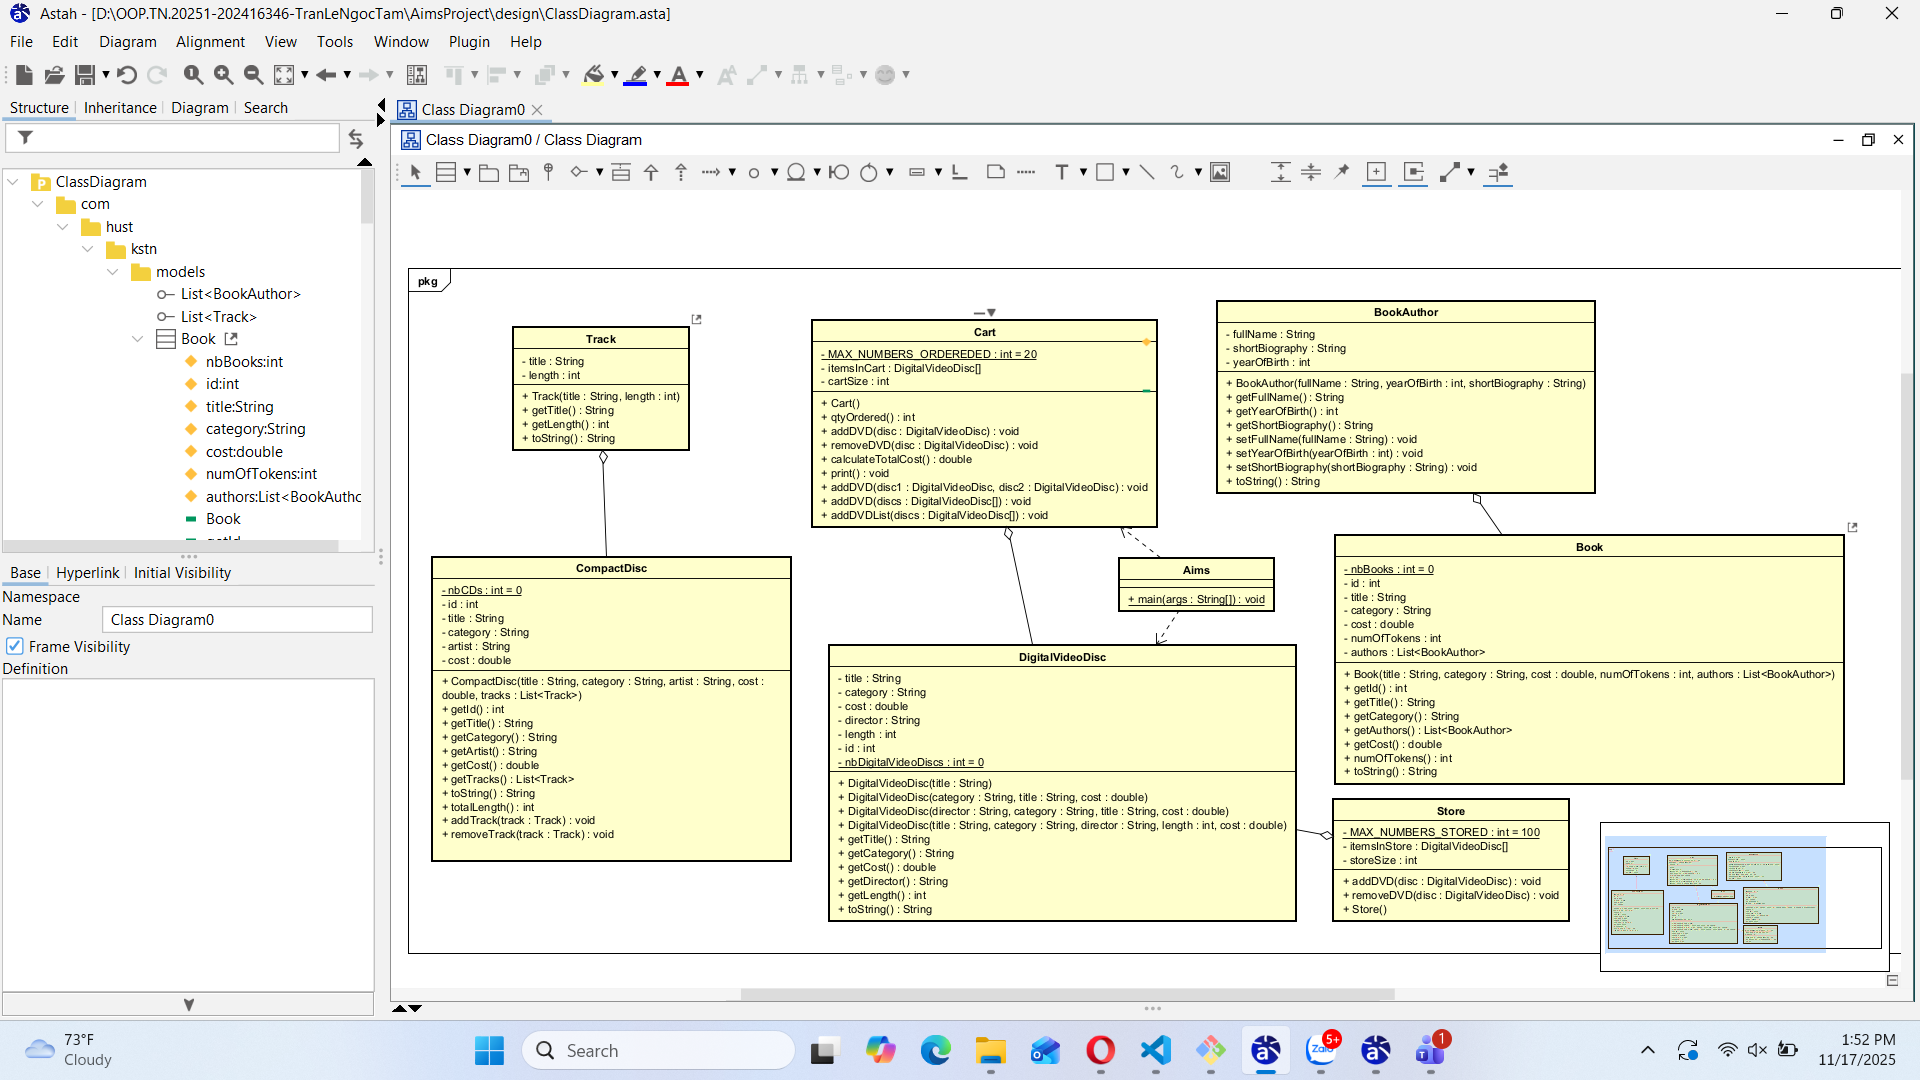
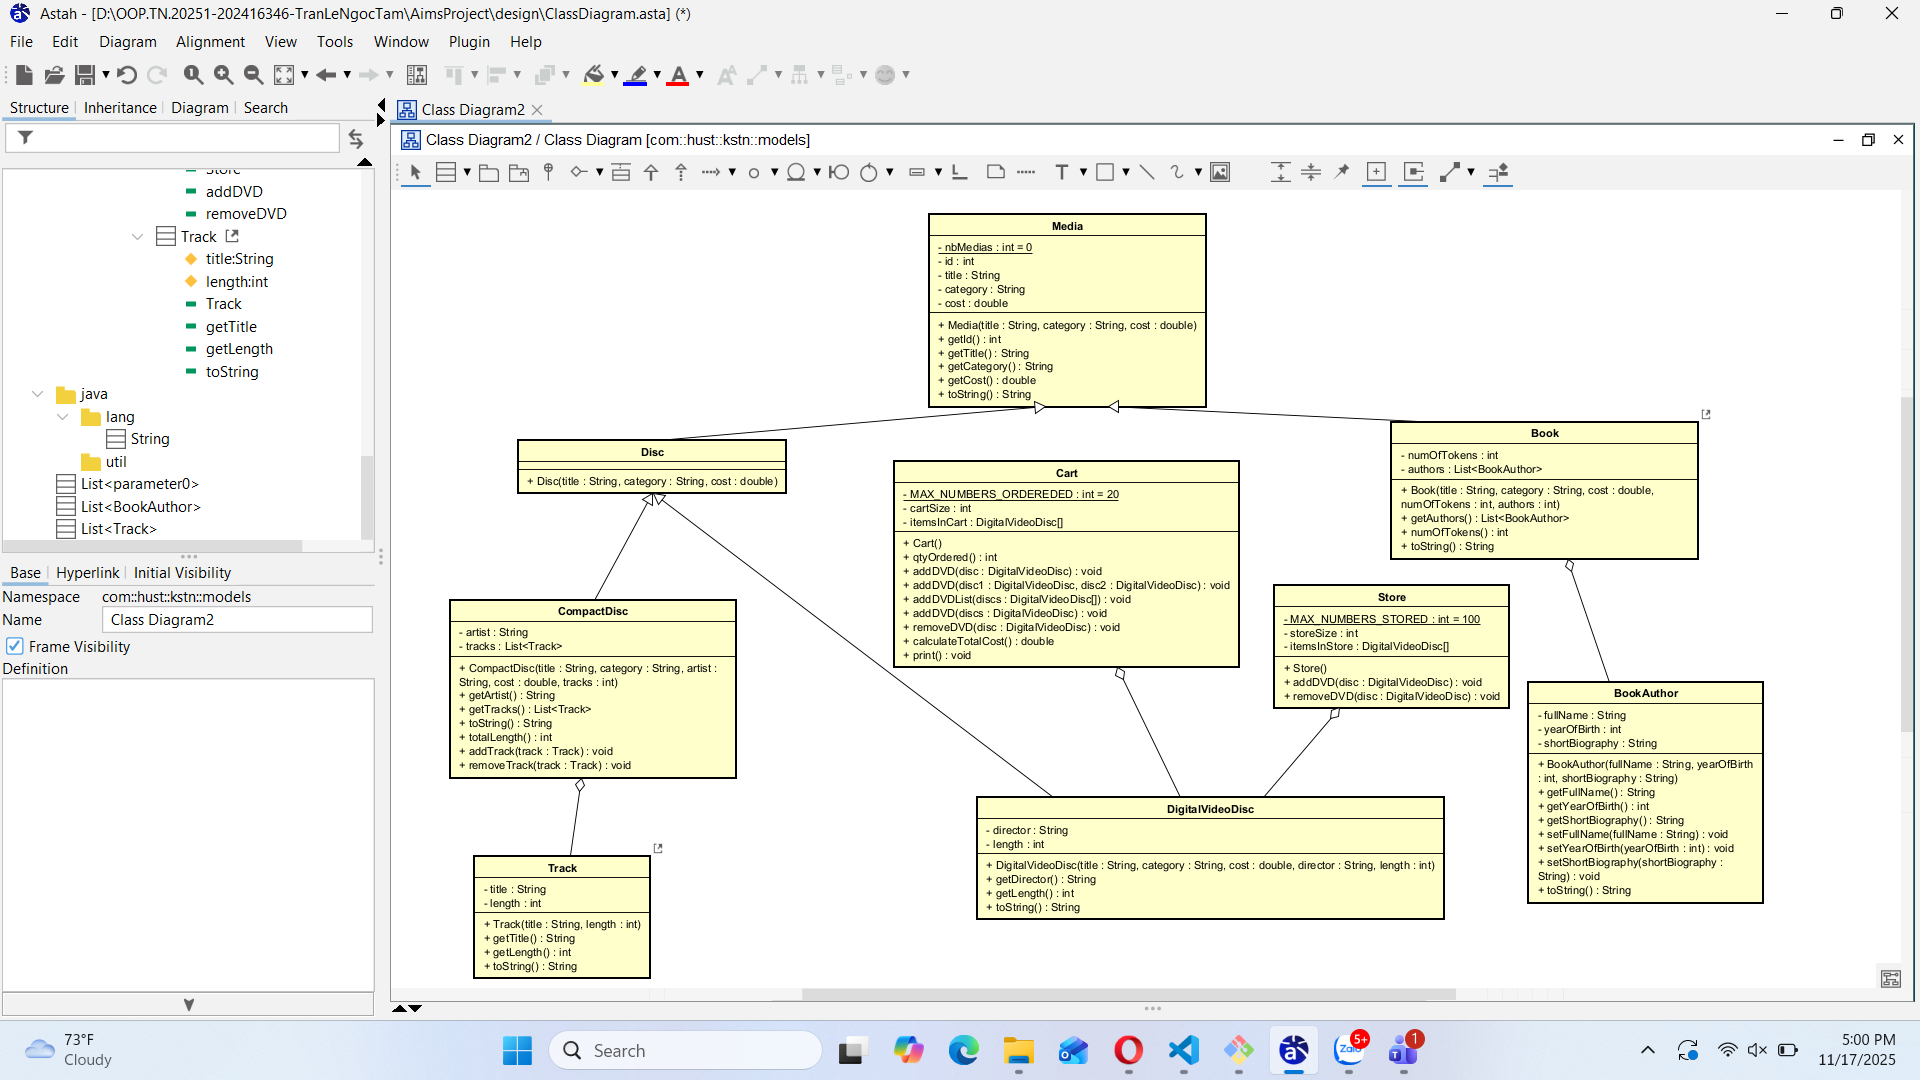
Create Inheritance Structure

diff --git a/AimsProject/src/com/hust/kstn/models/DigitalVideoDisc.java b/AimsProject/src/com/hust/kstn/models/DigitalVideoDisc.java
@@ -1,53 +1,13 @@
 package com.hust.kstn.models;
 
-public class DigitalVideoDisc {
-    private static int nbDigitalVideoDiscs = 0;
-    private int id;
-    private String title;
-    private String category;
-    private double cost;
+public class DigitalVideoDisc extends Disc {
     private String director;
     private int length;
 
-    public DigitalVideoDisc(String title) {
-        this.title = title;
-        this.id = ++nbDigitalVideoDiscs;
-    }
-
-    public DigitalVideoDisc(String category, String title, double cost) {
-        this.category = category;
-        this.title = title;
-        this.cost = cost;
-        this.id = ++nbDigitalVideoDiscs;
-    }
-
-    public DigitalVideoDisc(String director, String category, String title, double cost) {
-        this.director = director;
-        this.category = category;
-        this.title = title;
-        this.cost = cost;
-        this.id = ++nbDigitalVideoDiscs;
-    }
-
-    public DigitalVideoDisc(String title, String category, String director, int length, double cost) {
-        this.title = title;
-        this.category = category;
-        this.cost = cost;
+    public DigitalVideoDisc(String title, String category, double cost, String director, int length) {
+        super(title, category, cost);
         this.director = director;
         this.length = length;
-        this.id = ++nbDigitalVideoDiscs;
-    }
-
-    public String getTitle() {
-        return title;
-    }
-
-    public String getCategory() {
-        return category;
-    }
-
-    public double getCost() {
-        return cost;
     }
 
     public String getDirector() {
@@ -60,11 +20,8 @@ public class DigitalVideoDisc {
 
     @Override
     public String toString() {
-        return "DVD" + "[" + this.id + "]"
-                + "[" + this.title + "]"
-                + "[" + this.cost + "]"
-                + "[" + this.director + "]"
-                + "[" + this.length + "]"
-                + "[" + this.category + "]";
+        return super.toString() 
+                + "[" + this.director + "]["
+                + this.length + " seconds]";
     }
 }

diff --git a/AimsProject/src/com/hust/kstn/models/Book.java b/AimsProject/src/com/hust/kstn/models/Book.java
@@ -3,48 +3,27 @@ package com.hust.kstn.models;
 import java.util.ArrayList;
 import java.util.List;
 
-public class Book {
-    private static int nbBooks = 0;
-    private int id;
-    private String title;
-    private String category;
+public class Book extends Media {
     private List<BookAuthor> authors = new ArrayList<>();
-    private double cost;
     private int numOfTokens;
     public Book(String title, String category, double cost, int numOfTokens, List<BookAuthor> authors) {
-        this.title = title;
-        this.category = category;
-        this.cost = cost;
+        super(title, category, cost);
         this.numOfTokens = numOfTokens;
         this.authors = authors;
-        this.id = ++nbBooks;
     }
-    public int getId() {
-        return id;
-    }
-    public String getTitle() {
-        return title;
-    }
-    public String getCategory() {
-        return category;
-    }
+
     public List<BookAuthor> getAuthors() {
         return authors;
     }
-    public double getCost() {
-        return cost;
-    }
+
     public int numOfTokens() {
         return numOfTokens;
     }
 
     @Override
     public String toString() {
-        return "Book[" + this.id + "]["
-                + this.title + "]["
-                + this.cost + "]["
-                + this.category + "]["
-                + this.numOfTokens + "]"
+        return super.toString() 
+                + "[" + this.numOfTokens + "]"
                 + "\nAuthors: " + this.authors;
     }
 }

diff --git a/AimsProject/src/com/hust/kstn/models/CompactDisc.java b/AimsProject/src/com/hust/kstn/models/CompactDisc.java
@@ -1,47 +1,27 @@
 package com.hust.kstn.models;
 import java.util.ArrayList;
 import java.util.List;
-public class CompactDisc {
-    private static int nbCDs = 0;
-    private int id;
-    private String title;
-    private String category;
+public class CompactDisc extends Disc {
     private String artist;
-    private double cost;
     private List<Track> tracks = new ArrayList<>();
     public CompactDisc(String title, String category, String artist, double cost, List<Track> tracks) {
-        this.title = title;
-        this.category = category;
+        super(title, category, cost);
         this.artist = artist;
-        this.cost = cost;
         this.tracks = tracks;
-        this.id = ++nbCDs;
     }
-    public int getId() {
-        return id;
-    }
-    public String getTitle() {
-        return title;
-    }
-    public String getCategory() {
-        return category;
-    }
+    
     public String getArtist() {
         return artist;
     }
-    public double getCost() {
-        return cost;
-    }
+    
     public List<Track> getTracks() {
         return tracks;
     }
 
     @Override
     public String toString() {
-        return "CompactDisc[" + this.title + "]["
-                + this.category + "]["
-                + this.artist + "]["
-                + this.cost + "]"
+        return super.toString() + "]["
+                + this.artist + "]"
                 + "\nTracks: " + this.tracks;
     }
 

diff --git a/AimsProject/src/com/hust/kstn/Aims.java b/AimsProject/src/com/hust/kstn/Aims.java
@@ -1,12 +1,13 @@
 package com.hust.kstn;
-
+import com.hust.kstn.models.Cart;
+import com.hust.kstn.models.DigitalVideoDisc;
 public class Aims {
     public static void main(String args[]) {
         Cart cart = new Cart();
         DigitalVideoDisc dvd1 = new DigitalVideoDisc("DoMixi funny moments", 
-        "Comedy", "DoMixi", 360, 36.36);
+        "Comedy", 36.36, "DoMixi", 360);
         DigitalVideoDisc dvd2 = new DigitalVideoDisc("Anhtoi xin loi khan gia", 
-        "Tragedy", "Anhtoi", 63, 0.63);
+        "Tragedy", 0.63, "Anhtoi", 63);
 
         cart.addDVD(dvd1);
         cart.addDVD(dvd2);
@@ -20,7 +21,8 @@ public class Aims {
         cart.removeDVD(dvd1);
         for (int i = 0; i < 21; i++) {
             String randomTitle = Integer.toString(i);
-            DigitalVideoDisc newDisc = new DigitalVideoDisc(randomTitle);
+            DigitalVideoDisc newDisc = new DigitalVideoDisc(randomTitle, 
+            "Category" + randomTitle, i + 0.99, "Director" + randomTitle, i * 10);
             cart.addDVD(newDisc);
         }
     }

diff --git a/AimsProject/src/com/hust/kstn/models/Media.java b/AimsProject/src/com/hust/kstn/models/Media.java
@@ -1,0 +1,36 @@
+package com.hust.kstn.models;
+
+public class Media {
+    private static int nbMedias = 0;
+    private int id;
+    private String title;
+    private String category;
+    private double cost;
+    public Media(String title, String category, double cost) {
+        this.title = title;
+        this.category = category;
+        this.cost = cost;
+        this.id = ++nbMedias;
+    }
+
+    public int getId() {
+        return id;
+    }
+    public String getTitle() {
+        return title;
+    }
+    public String getCategory() {
+        return category;
+    }
+    public double getCost() {
+        return cost;
+    }
+    @Override
+    public String toString() {
+        return "Media[" + this.id + "]["
+                + this.title + "]["
+                + this.category + "]["
+                + this.cost + "]";
+    }
+
+}

diff --git a/AimsProject/src/com/hust/kstn/models/Disc.java b/AimsProject/src/com/hust/kstn/models/Disc.java
@@ -1,0 +1,9 @@
+package com.hust.kstn.models;
+
+public class Disc extends Media {
+    public Disc(String title, String category, double cost) {
+        super(title, category, cost);
+    }
+    
+    
+}
